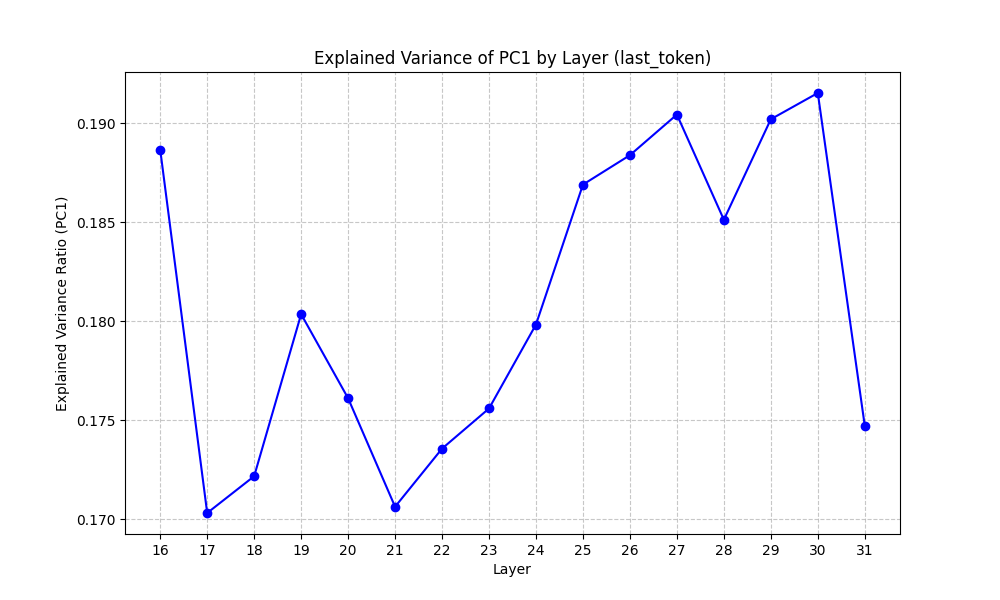
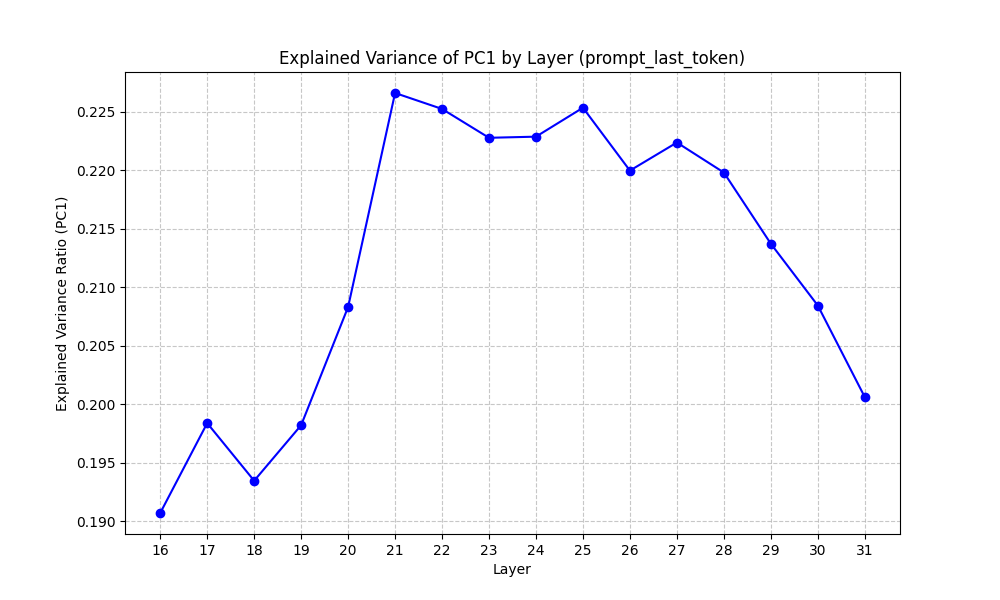
tried pca for 21 and 25

diff --git a/linear_probe/prompt_senstivity/compute_PCA.py b/linear_probe/prompt_senstivity/compute_PCA.py
@@ -43,6 +43,8 @@ def main():
                         help="Which token position to read (default: last_token)")
     parser.add_argument("--max_components", type=int, default=20, 
                         help="Maximum number of PCA components to plot in the heatmap (default: 20)")
+    parser.add_argument("--plot_pc1", action="store_true", 
+                        help="Plot Explained Variance of PC1 as a line graph instead of the 2D heatmap")
     args = parser.parse_args()
 
     token_type = args.token_type
@@ -90,8 +92,11 @@ def main():
 
     layers_plotted = []
     variance_matrix = []
+    pc1_values = []
 
     print(f"\nProcessing layers...")
+    if args.plot_pc1:
+        print("\nLayer\t| PC1 Explained Variance")
     print("-" * 40)
 
     for layer in available_layers:
@@ -136,14 +141,19 @@ def main():
 
             layers_plotted.append(layer)
 
-            var_array = explained_variance_ratio.numpy()
-            if len(var_array) > args.max_components:
-                var_array = var_array[:args.max_components]
-            elif len(var_array) < args.max_components:
-                var_array = np.pad(var_array, (0, args.max_components - len(var_array)), 'constant')
-                
-            variance_matrix.append(var_array)
-            print(f"{layer}\t| Extracted {len(explained_variance_ratio)} components")
+            if args.plot_pc1:
+                pc1_var = explained_variance_ratio[0].item()
+                pc1_values.append(pc1_var)
+                print(f"{layer}\t| {pc1_var:.4f}")
+            else:
+                var_array = explained_variance_ratio.numpy()
+                if len(var_array) > args.max_components:
+                    var_array = var_array[:args.max_components]
+                elif len(var_array) < args.max_components:
+                    var_array = np.pad(var_array, (0, args.max_components - len(var_array)), 'constant')
+                    
+                variance_matrix.append(var_array)
+                print(f"{layer}\t| Extracted {len(explained_variance_ratio)} components")
 
         except Exception as e:
             print(f"{layer}\t| Error: {e}")
@@ -154,30 +164,40 @@ def main():
         return
 
     # ── Plotting ─────────────────────────────────────────────────────────
-    variance_matrix = np.array(variance_matrix)
-    
-    plt.figure(figsize=(10, 8))
-    
-    # Plot as a heatmap: Y-axis is Layers, X-axis is Components
-    plt.imshow(variance_matrix, aspect='auto', cmap='viridis', origin='lower')
-    
-    # Configure axes
-    plt.yticks(ticks=np.arange(len(layers_plotted)), labels=layers_plotted)
-    
-    # For X-axis, don't label every single tick if there are too many components
-    step = max(1, args.max_components // 10)
-    xticks = np.arange(0, args.max_components, step)
-    xlabels = [str(i + 1) for i in xticks]
-    plt.xticks(ticks=xticks, labels=xlabels)
-    
-    plt.colorbar(label='Explained Variance Ratio')
-    
     dir_suffix = run_dir.name.replace("prompt_activations_", "")
-    
-    plt.title(f"Explained Variance by PCA Component per Layer ({token_type})")
-    plt.ylabel("Layer")
-    plt.xlabel("PCA Component")
-    output_filename = f"pca_variance_heatmap_deltas_{dir_suffix}.png"
+
+    if args.plot_pc1:
+        plt.figure(figsize=(10, 6))
+        plt.plot(layers_plotted, pc1_values, marker='o', linestyle='-', color='b')
+        plt.title(f"Explained Variance of PC1 by Layer ({token_type})")
+        plt.ylabel("Explained Variance Ratio (PC1)")
+        plt.xlabel("Layer")
+        plt.grid(True, linestyle='--', alpha=0.7)
+        plt.xticks(layers_plotted)
+        output_filename = f"pc1_explained_variance_deltas_{dir_suffix}.png"
+    else:
+        variance_matrix = np.array(variance_matrix)
+        
+        plt.figure(figsize=(10, 8))
+        
+        # Plot as a heatmap: Y-axis is Layers, X-axis is Components
+        plt.imshow(variance_matrix, aspect='auto', cmap='viridis', origin='lower')
+        
+        # Configure axes
+        plt.yticks(ticks=np.arange(len(layers_plotted)), labels=layers_plotted)
+        
+        # For X-axis, don't label every single tick if there are too many components
+        step = max(1, args.max_components // 10)
+        xticks = np.arange(0, args.max_components, step)
+        xlabels = [str(i + 1) for i in xticks]
+        plt.xticks(ticks=xticks, labels=xlabels)
+        
+        plt.colorbar(label='Explained Variance Ratio')
+        
+        plt.title(f"Explained Variance by PCA Component per Layer ({token_type})")
+        plt.ylabel("Layer")
+        plt.xlabel("PCA Component")
+        output_filename = f"pca_variance_heatmap_deltas_{dir_suffix}.png"
     
     output_dir = PROJECT_ROOT / "plots" / "linear_probe" / "prompt_senstivity" / "PCA"
     output_dir.mkdir(parents=True, exist_ok=True)

diff --git a/linear_probe/prompt_senstivity/test_probe_dir_casual_prompts_OOD.py b/linear_probe/prompt_senstivity/test_probe_dir_casual_prompts_OOD.py
@@ -246,6 +246,9 @@ def main():
                         help="Which OOD prompt indices to run (default: all)")
     parser.add_argument("--continuous_steering", action="store_true",
                         help="Add the probe vector to the entire sequence instead of just the last token")
+    parser.add_argument("--token_type", type=str, default="last_token",
+                        choices=["last_token", "prompt_last_token"],
+                        help="Which token type vector to load (default: last_token)")
     args = parser.parse_args()
 
     # Resolve which prompts to run
@@ -274,7 +277,7 @@ def main():
     if args.probe_path:
         probe_path = Path(args.probe_path)
     else:
-        probe_path = script_dir / "probe_vectors" / f"mass_mean_vector_layer{args.probe_layer}_last_token.pt"
+        probe_path = script_dir / "probe_vectors" / f"mass_mean_vector_layer{args.probe_layer}_{args.token_type}.pt"
 
     print(f"\n📐 Loading probe vector from: {probe_path}")
     probe_vector = torch.load(probe_path, map_location="cpu")
